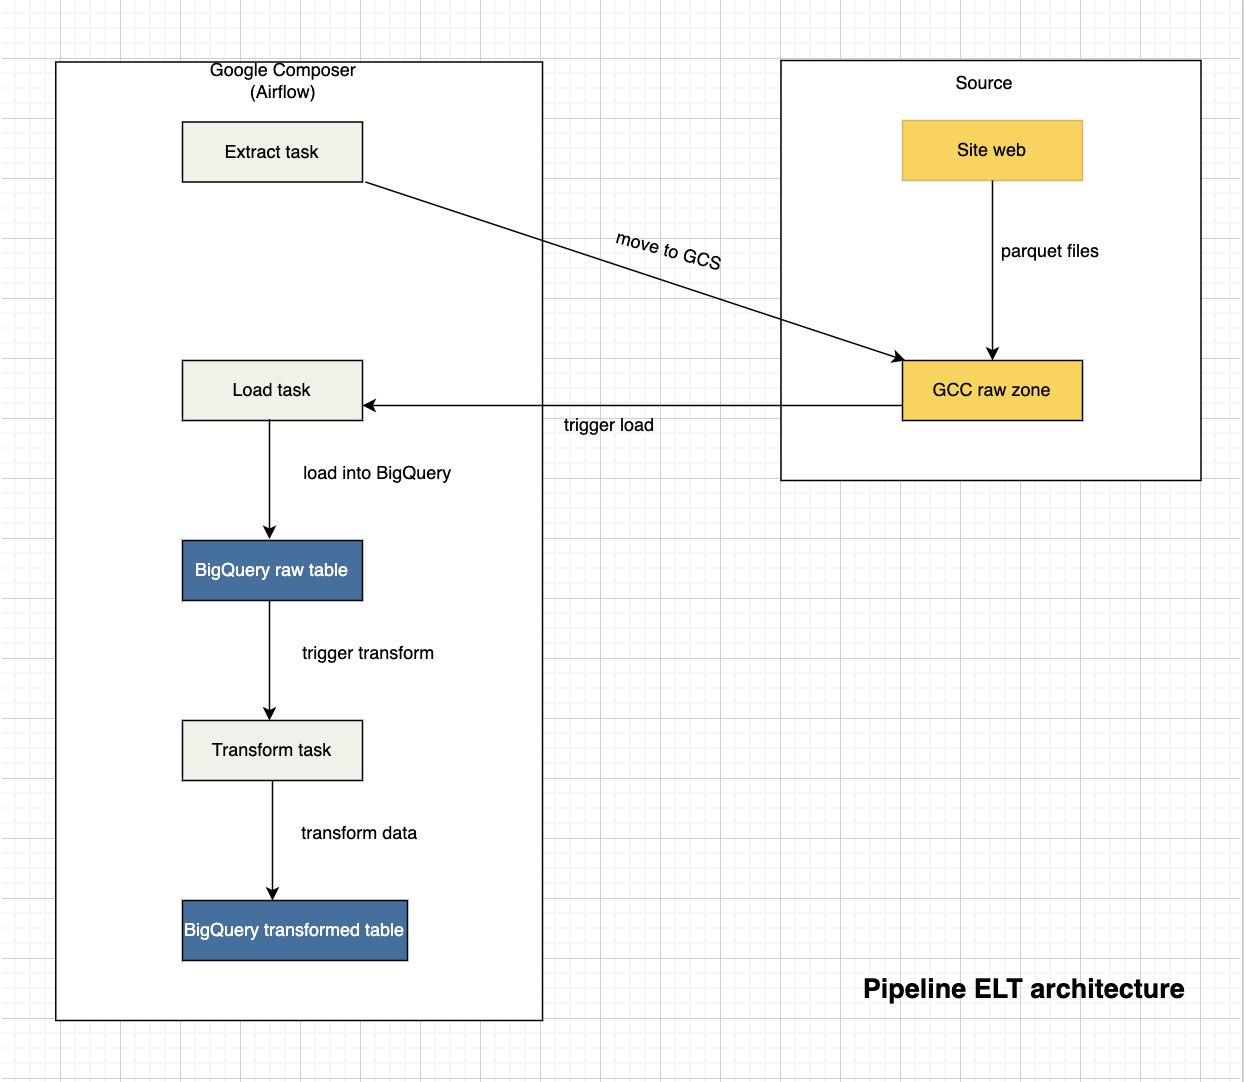
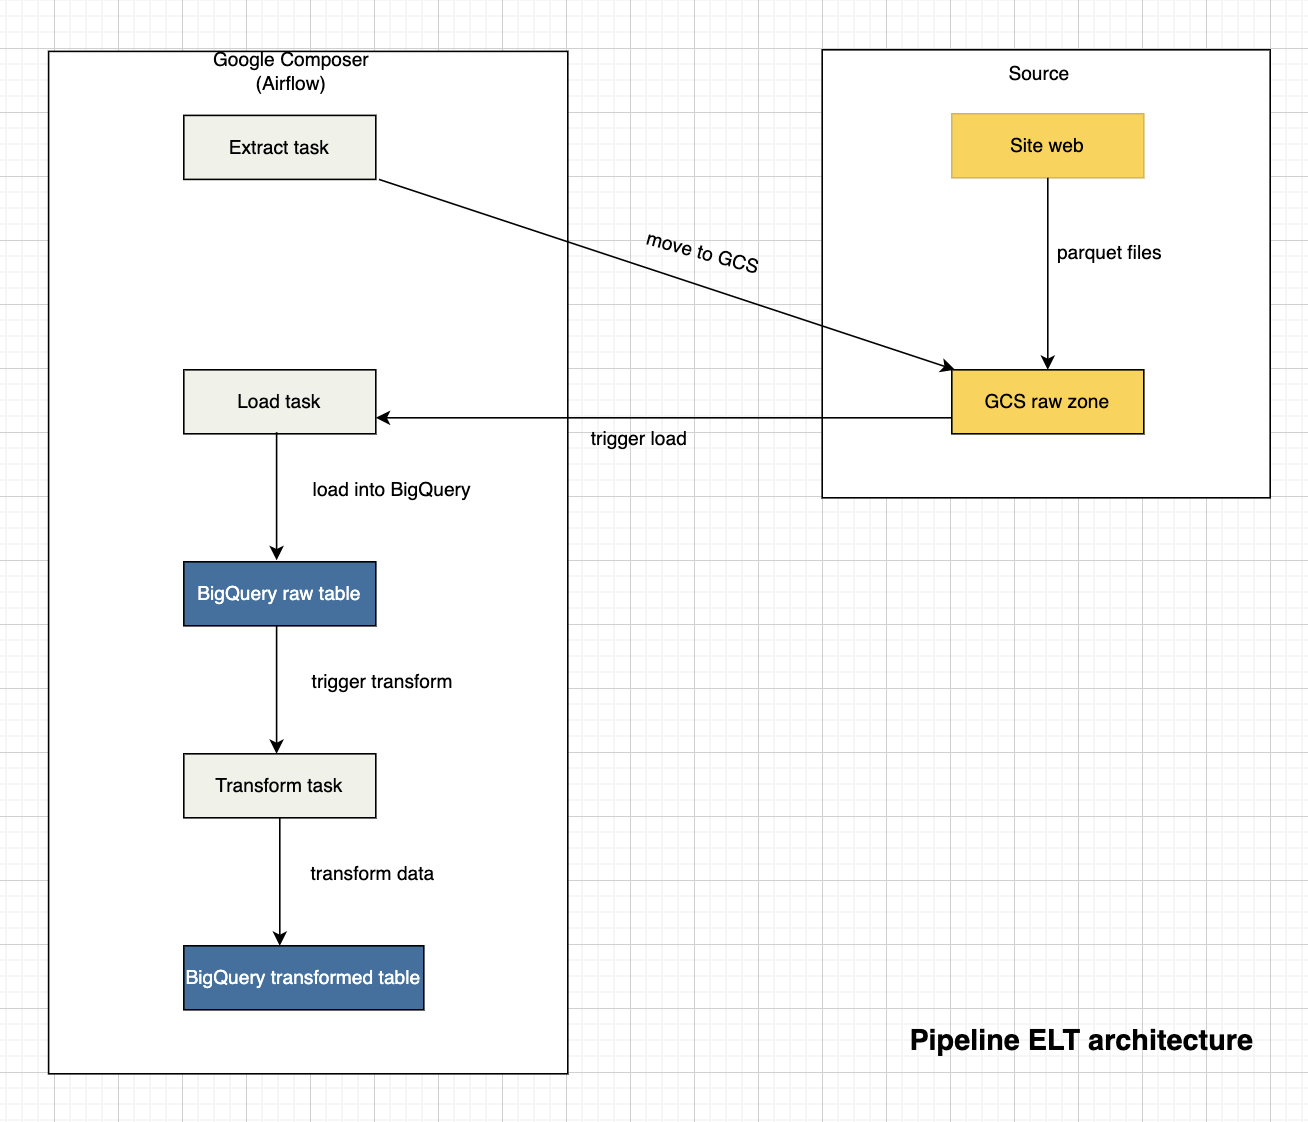
add architecture, dependencies, technology in readme

diff --git a/README.md b/README.md
@@ -1,56 +1,68 @@
-# 🏆 yellow-taxi-trips-analytics
+# 🏆 Yellow Taxi Trips Analytics
 
-This involves designing and deploying a complete ELT pipeline on Google Cloud Platform, automating data processing and harnessing the power of the cloud for analysis.
+This project involves designing and deploying a complete ELT pipeline on Google Cloud Platform, automating data ingestion, storage, and transformation to power cloud-based analytics.
 
-## ☁ Architecture
-![Home view](./archi_elt.png)
+## 🧱 Architecture
+![Architecture pipeline](./archi_elt.png)
 
-## 🛠 Technical environement
+### Steps in the pipeline
+1. **Extraction**  
+   ↳ Downloads the parquet files from a website and places them in the GCS bucket.
 
-- GCP (Google Cloud Platform)
+2. **Upload**  
+   ↳ Triggers the automatic upload of files to BigQuery in a **raw table**.
 
-The Google Cloud Platform is the platform that brings together Google's various cloud services.
-It comprises a family of products, each with a web interface. For more details, click [here](https://cloud.google.com/docs/overview?hl=fr)
+3. **Transform**  
+   ↳ Applies SQL or Python processing to create a **transformed table**.
 
-- BigQuery
+## 🛠 Technology used
 
-It is a very large-scale data warehouse. [More](https://cloud.google.com/bigquery?hl=fr)
+| Tool / Service | Role
+|-----------------------|----------------------------------|
+| **Google Cloud Platform (GCP)** - Cloud platform used to host services
+| **Airflow (via Google Composer)**| Orchestration of ETL tasks |
+| **Google Cloud Storage (GCS)** | Storage of raw files (staging area) |
+| **BigQuery** | Data warehousing and transformations |
+| **Python / SQL** scripts and transformation queries
+| **Parquet** | Source file format |
 
-- Cloud Shell
-
-It's an environment that lets you code or use a terminal directly in your browser. [More](https://cloud.google.com/shell?hl=fr)
-
-- Cloud Storage
-
-It's an online file storage system. [More](https://cloud.google.com/storage?hl=fr)
-
-- Cloud composer
-
-It's a fully managed workflow orchestration service built on Apache Airflow. [More](https://cloud.google.com/composer?hl=fr)
-
-- SQL
-
-SQL (Structured Query Language) is a popular query language frequently used in all types of applications. [More](https://sql.sh/)
-
-- Python
-
-Python is a general-purpose programming language created in 1989 by Guido van Rossum. [More](https://www.python.org/)
-
-
-<!--## *⃣ Project structure-->
 
 ## 💻 Environment setup
-- Get the project and launch the program
+
+1. Clone the repository
 
 In your terminal,
 ```sh
 git clone https://github.com/Desy16/yellow-taxi-trips-analytics.git
-cd yellow-taxi-trips-analytics.git
+cd yellow-taxi-trips-analytics
+```
 
+2. Create and activate a virtual environment
+```sh
 python3 -m venv .venv
 source .venv/bin/activate
+```
+
+3. Install dependencies
+```sh
 pip install -r requirements.txt
 ```
 
+## 🧰 Dependencies
+```txt
+google==3.0.0
+google-api-core==2.24.1
+google-auth==2.38.0
+google-cloud==0.34.0
+google-cloud-bigquery==3.29.0
+google-cloud-core==2.4.1
+google-cloud-storage==3.0.0
+numpy==2.2.2
+pandas==2.2.3
+py4j==0.10.9.7
+pyarrow==19.0.0
+scikit-learn==1.6.1
+```
+
 ## 👨💻 Author
-[Desty MPASSI MATONDO](https://github.com/Desy16/yellow-taxi-trips-analytics)
+[Desty MPASSI MATONDO](https://github.com/DestyM/)
